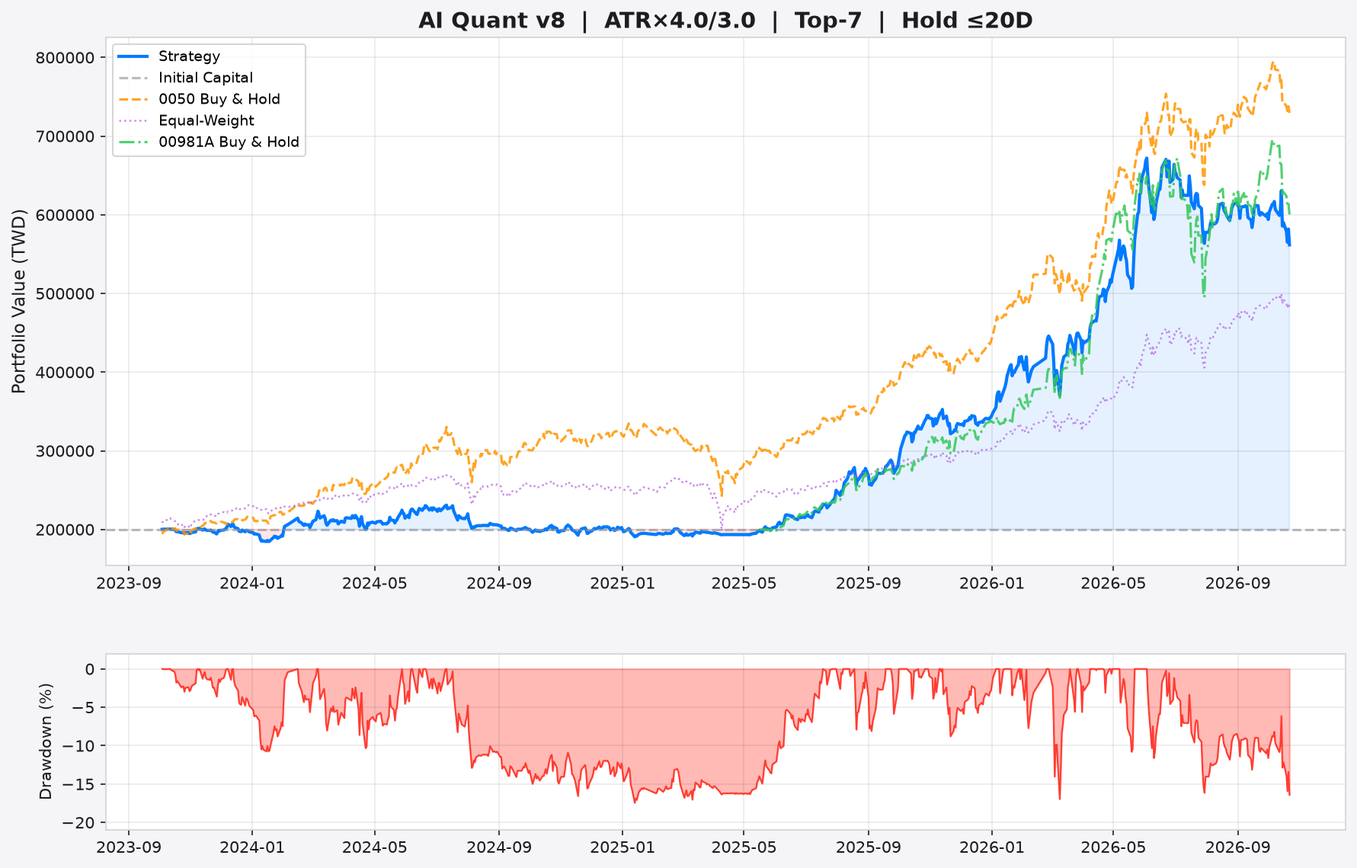
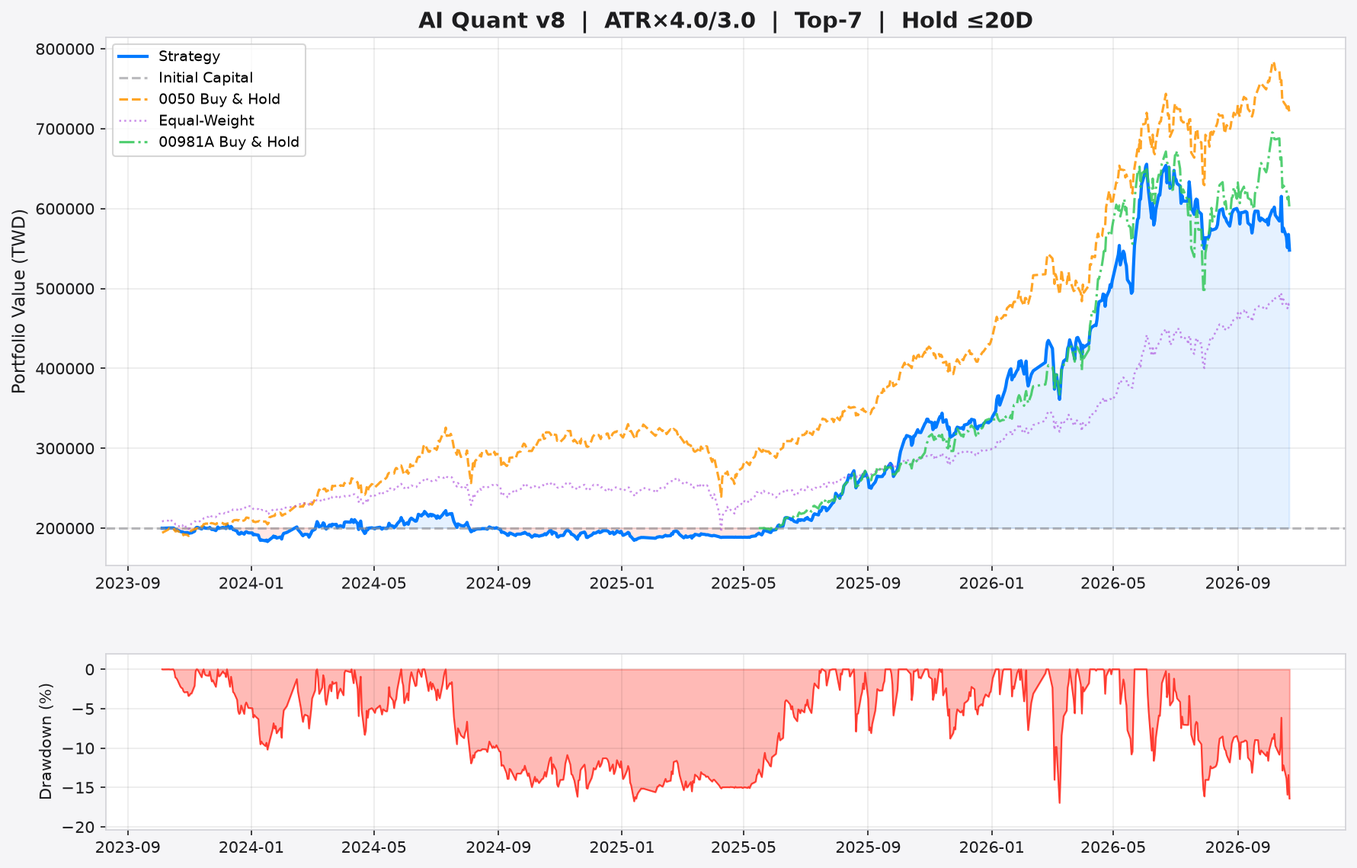
📊 AI Report v8.5 + Paper Trading (2026-10-23)

diff --git a/stock_report.html b/stock_report.html
@@ -303,27 +303,27 @@
     <div class="stats">
         <div class="stat-card">
             <div class="label">策略總報酬率</div>
-            <div class="value" style="color:#00ff00;">+180.9%</div>
+            <div class="value" style="color:#00ff00;">+174.0%</div>
         </div>
         <div class="stat-card">
             <div class="label">年化報酬率</div>
-            <div class="value" style="color:#00ff00;">+42.2%</div>
+            <div class="value" style="color:#00ff00;">+41.1%</div>
         </div>
         <div class="stat-card">
             <div class="label">年化波動率</div>
-            <div class="value">27.1%</div>
+            <div class="value">26.5%</div>
         </div>
         <div class="stat-card risk">
             <div class="label">Sharpe Ratio</div>
-            <div class="value" style="color:#00ff00;">1.44</div>
+            <div class="value" style="color:#00ff00;">1.43</div>
         </div>
         <div class="stat-card risk">
             <div class="label">Sortino Ratio</div>
-            <div class="value">2.01</div>
+            <div class="value">2.00</div>
         </div>
         <div class="stat-card risk">
             <div class="label">最大回撤</div>
-            <div class="value" style="color:#ff4444;">-17.4%</div>
+            <div class="value" style="color:#ff4444;">-17.0%</div>
         </div>
         <div class="stat-card risk">
             <div class="label">Calmar Ratio</div>
@@ -331,11 +331,11 @@
         </div>
         <div class="stat-card">
             <div class="label">完成交易數</div>
-            <div class="value">566</div>
+            <div class="value">567</div>
         </div>
         <div class="stat-card">
             <div class="label">勝率</div>
-            <div class="value" style="color:#00ff00;">53.4%</div>
+            <div class="value" style="color:#00ff00;">54.1%</div>
         </div>
         <div class="stat-card">
             <div class="label">Profit Factor</div>
@@ -343,7 +343,7 @@
         </div>
         <div class="stat-card">
             <div class="label">平均報酬/筆</div>
-            <div class="value">+2.48%</div>
+            <div class="value">+2.49%</div>
         </div>
         <div class="stat-card">
             <div class="label">平均持有天數</div>
@@ -373,14 +373,14 @@
 <tr><td>1303</td><td>4.00</td><td>301.0</td><td><span style="color:#00ff00; font-weight:bold;">🟢 建議買進 #1</span></td><td><b>停利:</b> <span style="color:#00ff00">383.1</span> (+27.3%) <br><b>停損:</b> <span style="color:#ff4444">239.4</span> (-20.5%) <br><b>最晚出場:</b> 2026-11-20</td><td><span style="font-size:0.72rem; color:#888;">歷史 <b>14</b>筆 | 勝率 <b style="color:#00ff00">79%</b> | 均報酬 <b style="color:#00ff00">+8.7%</b></span></td><td><span style="font-size:0.78rem;">⚪ 無資料<br><span style="color:#888; font-weight:bold;">+0.0%</span></span></td><td><span style="font-size:0.78rem;">⚪ 中性</span></td></tr>
 <tr><td>6505</td><td>3.93</td><td>106.5</td><td><span style="color:#00ff00; font-weight:bold;">🟢 建議買進 #2</span></td><td><b>停利:</b> <span style="color:#00ff00">137.4</span> (+29.0%) <br><b>停損:</b> <span style="color:#ff4444">83.3</span> (-21.8%) <br><b>最晚出場:</b> 2026-11-20</td><td><span style="font-size:0.72rem; color:#888;">歷史 <b>5</b>筆 | 勝率 <b style="color:#00ff00">60%</b> | 均報酬 <b style="color:#00ff00">+6.4%</b></span></td><td><span style="font-size:0.78rem;">⚪ 無資料<br><span style="color:#888; font-weight:bold;">+0.0%</span></span></td><td><span style="font-size:0.78rem;">⚪ 中性</span></td></tr>
 <tr><td>1101</td><td>3.78</td><td>28.0</td><td><span style="color:#00ff00; font-weight:bold;">🟢 建議買進 #3</span></td><td><b>停利:</b> <span style="color:#00ff00">31.2</span> (+11.5%) <br><b>停損:</b> <span style="color:#ff4444">25.5</span> (-8.6%) <br><b>最晚出場:</b> 2026-11-20</td><td><span style="font-size:0.72rem; color:#555;">歷史資料不足</span></td><td><span style="font-size:0.78rem;">🟡 小買<br><span style="color:#ffab00; font-weight:bold;">+1.2%</span></span></td><td><span style="font-size:0.78rem;">⚪ 中性</span></td></tr>
-<tr><td>4938</td><td>3.77</td><td>103.5</td><td><span style="color:#00ff00; font-weight:bold;">🟢 建議買進 #4</span></td><td><b>停利:</b> <span style="color:#00ff00">117.7</span> (+13.8%) <br><b>停損:</b> <span style="color:#ff4444">92.8</span> (-10.3%) <br><b>最晚出場:</b> 2026-11-20</td><td><span style="font-size:0.72rem; color:#888;">歷史 <b>3</b>筆 | 勝率 <b style="color:#ff4444">33%</b> | 均報酬 <b style="color:#00ff00">+1.7%</b></span></td><td><span style="font-size:0.78rem;">🟡 小買<br><span style="color:#ffab00; font-weight:bold;">+1.6%</span></span></td><td><span style="font-size:0.78rem;">⚪ 中性</span></td></tr>
+<tr><td>4938</td><td>3.77</td><td>103.5</td><td><span style="color:#00ff00; font-weight:bold;">🟢 建議買進 #4</span></td><td><b>停利:</b> <span style="color:#00ff00">117.7</span> (+13.8%) <br><b>停損:</b> <span style="color:#ff4444">92.8</span> (-10.3%) <br><b>最晚出場:</b> 2026-11-20</td><td><span style="font-size:0.72rem; color:#888;">歷史 <b>3</b>筆 | 勝率 <b style="color:#ff4444">33%</b> | 均報酬 <b style="color:#ff4444">-0.2%</b></span></td><td><span style="font-size:0.78rem;">🟡 小買<br><span style="color:#ffab00; font-weight:bold;">+1.6%</span></span></td><td><span style="font-size:0.78rem;">⚪ 中性</span></td></tr>
 <tr><td>1301</td><td>3.73</td><td>73.8</td><td><span style="color:#00ff00; font-weight:bold;">🟢 建議買進 #5</span></td><td><b>停利:</b> <span style="color:#00ff00">90.8</span> (+23.0%) <br><b>停損:</b> <span style="color:#ff4444">61.1</span> (-17.2%) <br><b>最晚出場:</b> 2026-11-20</td><td><span style="font-size:0.72rem; color:#888;">歷史 <b>3</b>筆 | 勝率 <b style="color:#ff4444">0%</b> | 均報酬 <b style="color:#ff4444">-9.5%</b></span></td><td><span style="font-size:0.78rem;">🟡 小買<br><span style="color:#ffab00; font-weight:bold;">+1.2%</span></span></td><td><span style="font-size:0.78rem;">⚪ 中性</span></td></tr>
 <tr><td>2412</td><td>3.52</td><td>158.0</td><td><span style="color:#00ff00; font-weight:bold;">🟢 建議買進 #6</span></td><td><b>停利:</b> <span style="color:#00ff00">167.9</span> (+6.3%) <br><b>停損:</b> <span style="color:#ff4444">150.6</span> (-4.7%) <br><b>最晚出場:</b> 2026-11-20</td><td><span style="font-size:0.72rem; color:#888;">歷史 <b>2</b>筆 | 勝率 <b style="color:#00ff00">100%</b> | 均報酬 <b style="color:#00ff00">+1.6%</b></span></td><td><span style="font-size:0.78rem;">⚪ 無資料<br><span style="color:#888; font-weight:bold;">+0.0%</span></span></td><td><span style="font-size:0.78rem;">⚪ 中性</span></td></tr>
-<tr><td>2884</td><td>3.50</td><td>49.8</td><td><span style="color:#00ff00; font-weight:bold;">🟢 建議買進 #7</span></td><td><b>停利:</b> <span style="color:#00ff00">53.9</span> (+8.3%) <br><b>停損:</b> <span style="color:#ff4444">46.7</span> (-6.2%) <br><b>最晚出場:</b> 2026-11-20</td><td><span style="font-size:0.72rem; color:#888;">歷史 <b>5</b>筆 | 勝率 <b style="color:#00ff00">80%</b> | 均報酬 <b style="color:#00ff00">+1.6%</b></span></td><td><span style="font-size:0.78rem;">⚪ 無資料<br><span style="color:#888; font-weight:bold;">+0.0%</span></span></td><td><span style="font-size:0.78rem;">⚪ 中性</span></td></tr>
-<tr style="opacity:0.6"><td>6415</td><td>3.45</td><td>472.0</td><td><span style="color:#ffab00">🟡 候選 (超出 Top-K)</span></td><td>-</td><td><span style="font-size:0.72rem; color:#888;">勝率 <b style="color:#ff4444">43%</b></span></td><td><span style="font-size:0.72rem;">⚪ 無資料<br><span style="color:#888">+0.0%</span></span></td><td><span style="font-size:0.72rem;">⚪ 中性</span></td></tr>
-<tr style="opacity:0.6"><td>2886</td><td>3.45</td><td>55.2</td><td><span style="color:#ffab00">🟡 候選 (超出 Top-K)</span></td><td>-</td><td><span style="font-size:0.72rem; color:#888;">勝率 <b style="color:#ff4444">0%</b></span></td><td><span style="font-size:0.72rem;">⚪ 無資料<br><span style="color:#888">+0.0%</span></span></td><td><span style="font-size:0.72rem;">⚪ 中性</span></td></tr>
-<tr style="opacity:0.6"><td>2603</td><td>3.28</td><td>260.0</td><td><span style="color:#ffab00">🟡 候選 (超出 Top-K)</span></td><td>-</td><td><span style="font-size:0.72rem; color:#888;">勝率 <b style="color:#ff4444">40%</b></span></td><td><span style="font-size:0.72rem;">🟢 大買<br><span style="color:#00ff00">+2.0%</span></span></td><td><span style="font-size:0.72rem;">⚪ 中性</span></td></tr>
-<tr style="opacity:0.6"><td>3533</td><td>3.27</td><td>1795.0</td><td><span style="color:#ffab00">🟡 候選 (超出 Top-K)</span></td><td>-</td><td><span style="font-size:0.72rem; color:#888;">勝率 <b style="color:#00ff00">50%</b></span></td><td><span style="font-size:0.72rem;">⚪ 無資料<br><span style="color:#888">+0.0%</span></span></td><td><span style="font-size:0.72rem;">⚪ 中性</span></td></tr>
+<tr><td>2884</td><td>3.50</td><td>49.8</td><td><span style="color:#00ff00; font-weight:bold;">🟢 建議買進 #7</span></td><td><b>停利:</b> <span style="color:#00ff00">53.9</span> (+8.3%) <br><b>停損:</b> <span style="color:#ff4444">46.7</span> (-6.2%) <br><b>最晚出場:</b> 2026-11-20</td><td><span style="font-size:0.72rem; color:#888;">歷史 <b>5</b>筆 | 勝率 <b style="color:#00ff00">80%</b> | 均報酬 <b style="color:#00ff00">+2.0%</b></span></td><td><span style="font-size:0.78rem;">⚪ 無資料<br><span style="color:#888; font-weight:bold;">+0.0%</span></span></td><td><span style="font-size:0.78rem;">⚪ 中性</span></td></tr>
+<tr style="opacity:0.6"><td>6415</td><td>3.45</td><td>472.0</td><td><span style="color:#ffab00">🟡 候選 (超出 Top-K)</span></td><td>-</td><td><span style="font-size:0.72rem; color:#888;">勝率 <b style="color:#ff4444">38%</b></span></td><td><span style="font-size:0.72rem;">⚪ 無資料<br><span style="color:#888">+0.0%</span></span></td><td><span style="font-size:0.72rem;">⚪ 中性</span></td></tr>
+<tr style="opacity:0.6"><td>2886</td><td>3.45</td><td>55.2</td><td><span style="color:#ffab00">🟡 候選 (超出 Top-K)</span></td><td>-</td><td><span style="font-size:0.72rem; color:#888;">勝率 <b style="color:#00ff00">50%</b></span></td><td><span style="font-size:0.72rem;">⚪ 無資料<br><span style="color:#888">+0.0%</span></span></td><td><span style="font-size:0.72rem;">⚪ 中性</span></td></tr>
+<tr style="opacity:0.6"><td>2603</td><td>3.28</td><td>260.0</td><td><span style="color:#ffab00">🟡 候選 (超出 Top-K)</span></td><td>-</td><td><span style="font-size:0.72rem; color:#888;">勝率 <b style="color:#00ff00">50%</b></span></td><td><span style="font-size:0.72rem;">🟢 大買<br><span style="color:#00ff00">+2.0%</span></span></td><td><span style="font-size:0.72rem;">⚪ 中性</span></td></tr>
+<tr style="opacity:0.6"><td>3533</td><td>3.27</td><td>1795.0</td><td><span style="color:#ffab00">🟡 候選 (超出 Top-K)</span></td><td>-</td><td><span style="font-size:0.72rem; color:#888;">勝率 <b style="color:#00ff00">71%</b></span></td><td><span style="font-size:0.72rem;">⚪ 無資料<br><span style="color:#888">+0.0%</span></span></td><td><span style="font-size:0.72rem;">⚪ 中性</span></td></tr>
 <tr style="opacity:0.6"><td>1326</td><td>3.27</td><td>73.0</td><td><span style="color:#ffab00">🟡 候選 (超出 Top-K)</span></td><td>-</td><td><span style="font-size:0.72rem; color:#888;">勝率 <b style="color:#ff4444">29%</b></span></td><td><span style="font-size:0.72rem;">⚪ 無資料<br><span style="color:#888">+0.0%</span></span></td><td><span style="font-size:0.72rem;">⚪ 中性</span></td></tr>
 <tr style="opacity:0.4"><td>2383</td><td>2.37</td><td>5070.0</td><td><span style="color:#aaaaaa">⚪ 觀望 (低於 MA)</span></td><td>-</td><td>-</td><td style="color:#555">-</td><td style="color:#555">-</td></tr>
 <tr style="opacity:0.4"><td>1605</td><td>2.02</td><td>37.0</td><td><span style="color:#aaaaaa">⚪ 觀望 (低於 MA)</span></td><td>-</td><td>-</td><td style="color:#555">-</td><td style="color:#555">-</td></tr>
@@ -461,7 +461,7 @@
     <div class="stats">
         <div class="stat-card benchmark">
             <div class="label">0050 年化報酬</div>
-            <div class="value">+50.3%</div>
+            <div class="value">+49.8%</div>
         </div>
         <div class="stat-card benchmark">
             <div class="label">0050 最大回撤</div>
@@ -469,11 +469,11 @@
         </div>
         <div class="stat-card benchmark">
             <div class="label">0050 Sharpe</div>
-            <div class="value">1.75</div>
+            <div class="value">1.73</div>
         </div>
         <div class="stat-card" style="border-left-color:#ff4444">
             <div class="label">超額年化報酬 (α)</div>
-            <div class="value" style="color:#ff4444">-8.1%</div>
+            <div class="value" style="color:#ff4444">-8.7%</div>
         </div>
     </div>
 
@@ -533,18 +533,18 @@
         </div>
         <div class="stat-card">
             <div class="label">權益最高點</div>
-            <div class="value">671,984</div>
+            <div class="value">655,489</div>
         </div>
         <div class="stat-card">
             <div class="label">歷史回撤次數</div>
-            <div class="value">34</div>
+            <div class="value">32</div>
         </div>
     </div>
     <table>
         <thead><tr><th>#</th><th>開始日</th><th>恢復日</th><th>最大深度</th><th>持續天數</th></tr></thead>
         <tbody>
-<tr><td>#1</td><td>2024-07-18</td><td>2025-07-18</td><td style="color:#ff4444; font-weight:bold">-17.4%</td><td>365 天</td></tr>
-<tr><td>#2</td><td>2026-03-02</td><td>2026-03-19</td><td style="color:#ff4444; font-weight:bold">-17.0%</td><td>17 天</td></tr>
+<tr><td>#1</td><td>2026-03-02</td><td>2026-03-19</td><td style="color:#ff4444; font-weight:bold">-17.0%</td><td>17 天</td></tr>
+<tr><td>#2</td><td>2024-07-12</td><td>2025-07-15</td><td style="color:#ff4444; font-weight:bold">-16.8%</td><td>368 天</td></tr>
 <tr><td>#3</td><td>2026-06-23</td><td>2026-10-22</td><td style="color:#ff4444; font-weight:bold">-16.4%</td><td>121 天</td></tr>
 <tr><td>#4</td><td>2026-06-04</td><td>2026-06-22</td><td style="color:#ff4444; font-weight:bold">-11.6%</td><td>18 天</td></tr>
 <tr><td>#5</td><td>2026-05-08</td><td>2026-05-22</td><td style="color:#ff4444; font-weight:bold">-10.8%</td><td>14 天</td></tr>
@@ -562,11 +562,11 @@
         </div>
         <div class="stat-card">
             <div class="label">歷史平均 Sharpe</div>
-            <div class="value">1.45</div>
+            <div class="value">1.41</div>
         </div>
         <div class="stat-card risk">
             <div class="label">歷史最低 Sharpe</div>
-            <div class="value">-3.05</div>
+            <div class="value">-3.48</div>
         </div>
         <div class="stat-card">
             <div class="label">歷史最高 Sharpe</div>
@@ -596,9 +596,9 @@
     <table>
         <thead><tr><th>出場原因</th><th>次數</th><th>平均報酬</th></tr></thead>
         <tbody>
-<tr><td>🟢 停利</td><td>210 筆</td><td style="color:#00ff00">+16.60%</td></tr>
-<tr><td>⚪ 時間到期</td><td>206 筆</td><td style="color:#ff4444">-0.45%</td></tr>
-<tr><td>🔴 停損</td><td>150 筆</td><td style="color:#ff4444">-13.26%</td></tr>
+<tr><td>🟢 停利</td><td>213 筆</td><td style="color:#00ff00">+16.41%</td></tr>
+<tr><td>⚪ 時間到期</td><td>203 筆</td><td style="color:#ff4444">-0.31%</td></tr>
+<tr><td>🔴 停損</td><td>151 筆</td><td style="color:#ff4444">-13.36%</td></tr>
 
         </tbody>
     </table>
@@ -608,14 +608,14 @@
 
     <table>
         <thead><tr><th>報酬區間</th><th>筆數</th><th>佔比</th><th>分布</th></tr></thead>
-        <tbody><tr><td>< -15%</td><td>39</td><td>6.9%</td><td><div style="background:#ff4444; width:20.671378091872793%; height:14px; border-radius:3px; opacity:0.6"></div></td></tr>
-<tr><td>-15~-10%</td><td>89</td><td>15.7%</td><td><div style="background:#ff4444; width:47.1731448763251%; height:14px; border-radius:3px; opacity:0.6"></div></td></tr>
-<tr><td>-10~-5%</td><td>74</td><td>13.1%</td><td><div style="background:#ff4444; width:39.2226148409894%; height:14px; border-radius:3px; opacity:0.6"></div></td></tr>
-<tr><td>-5~0%</td><td>62</td><td>11.0%</td><td><div style="background:#ff4444; width:32.86219081272085%; height:14px; border-radius:3px; opacity:0.6"></div></td></tr>
-<tr><td>0~5%</td><td>57</td><td>10.1%</td><td><div style="background:#00ff00; width:30.212014134275613%; height:14px; border-radius:3px; opacity:0.6"></div></td></tr>
-<tr><td>5~10%</td><td>42</td><td>7.4%</td><td><div style="background:#00ff00; width:22.26148409893993%; height:14px; border-radius:3px; opacity:0.6"></div></td></tr>
-<tr><td>10~20%</td><td>150</td><td>26.5%</td><td><div style="background:#00ff00; width:79.50530035335689%; height:14px; border-radius:3px; opacity:0.6"></div></td></tr>
-<tr><td>> 20%</td><td>53</td><td>9.4%</td><td><div style="background:#00ff00; width:28.09187279151943%; height:14px; border-radius:3px; opacity:0.6"></div></td></tr>
+        <tbody><tr><td>< -15%</td><td>39</td><td>6.9%</td><td><div style="background:#ff4444; width:20.634920634920633%; height:14px; border-radius:3px; opacity:0.6"></div></td></tr>
+<tr><td>-15~-10%</td><td>91</td><td>16.0%</td><td><div style="background:#ff4444; width:48.14814814814815%; height:14px; border-radius:3px; opacity:0.6"></div></td></tr>
+<tr><td>-10~-5%</td><td>74</td><td>13.1%</td><td><div style="background:#ff4444; width:39.15343915343915%; height:14px; border-radius:3px; opacity:0.6"></div></td></tr>
+<tr><td>-5~0%</td><td>56</td><td>9.9%</td><td><div style="background:#ff4444; width:29.629629629629626%; height:14px; border-radius:3px; opacity:0.6"></div></td></tr>
+<tr><td>0~5%</td><td>57</td><td>10.1%</td><td><div style="background:#00ff00; width:30.158730158730158%; height:14px; border-radius:3px; opacity:0.6"></div></td></tr>
+<tr><td>5~10%</td><td>46</td><td>8.1%</td><td><div style="background:#00ff00; width:24.33862433862434%; height:14px; border-radius:3px; opacity:0.6"></div></td></tr>
+<tr><td>10~20%</td><td>150</td><td>26.5%</td><td><div style="background:#00ff00; width:79.36507936507935%; height:14px; border-radius:3px; opacity:0.6"></div></td></tr>
+<tr><td>> 20%</td><td>54</td><td>9.5%</td><td><div style="background:#00ff00; width:28.57142857142857%; height:14px; border-radius:3px; opacity:0.6"></div></td></tr>
 </tbody>
     </table>
 
@@ -626,25 +626,25 @@
     <table>
         <thead><tr><th>股票</th><th>交易數</th><th>勝率</th><th>平均報酬</th><th>總貢獻</th></tr></thead>
         <tbody><tr><td><b>2344</b></td><td>16</td><td style="color:#00ff00">81%</td><td style="color:#00ff00">+12.0%</td><td style="color:#00ff00; font-weight:bold">+192.7%</td></tr>
-<tr><td><b>2383</b></td><td>15</td><td style="color:#00ff00">80%</td><td style="color:#00ff00">+11.9%</td><td style="color:#00ff00; font-weight:bold">+178.9%</td></tr>
-<tr><td><b>3017</b></td><td>18</td><td style="color:#00ff00">83%</td><td style="color:#00ff00">+9.9%</td><td style="color:#00ff00; font-weight:bold">+177.8%</td></tr>
+<tr><td><b>2383</b></td><td>14</td><td style="color:#00ff00">79%</td><td style="color:#00ff00">+11.8%</td><td style="color:#00ff00; font-weight:bold">+165.0%</td></tr>
+<tr><td><b>3017</b></td><td>17</td><td style="color:#00ff00">82%</td><td style="color:#00ff00">+9.6%</td><td style="color:#00ff00; font-weight:bold">+163.7%</td></tr>
 <tr><td><b>1303</b></td><td>14</td><td style="color:#00ff00">79%</td><td style="color:#00ff00">+8.7%</td><td style="color:#00ff00; font-weight:bold">+122.4%</td></tr>
 <tr><td><b>2360</b></td><td>10</td><td style="color:#00ff00">80%</td><td style="color:#00ff00">+12.0%</td><td style="color:#00ff00; font-weight:bold">+119.5%</td></tr>
-<tr><td><b>2408</b></td><td>19</td><td style="color:#00ff00">63%</td><td style="color:#00ff00">+6.1%</td><td style="color:#00ff00; font-weight:bold">+116.3%</td></tr>
+<tr><td><b>2408</b></td><td>20</td><td style="color:#00ff00">60%</td><td style="color:#00ff00">+5.7%</td><td style="color:#00ff00; font-weight:bold">+115.0%</td></tr>
 <tr><td><b>6770</b></td><td>9</td><td style="color:#00ff00">89%</td><td style="color:#00ff00">+12.4%</td><td style="color:#00ff00; font-weight:bold">+111.8%</td></tr>
-<tr><td><b>5274O</b></td><td>17</td><td style="color:#00ff00">71%</td><td style="color:#00ff00">+5.3%</td><td style="color:#00ff00; font-weight:bold">+89.3%</td></tr>
-<tr><td><b>2327</b></td><td>10</td><td style="color:#00ff00">70%</td><td style="color:#00ff00">+8.5%</td><td style="color:#00ff00; font-weight:bold">+84.9%</td></tr>
-<tr><td><b>3037</b></td><td>12</td><td style="color:#00ff00">58%</td><td style="color:#00ff00">+6.8%</td><td style="color:#00ff00; font-weight:bold">+81.0%</td></tr>
+<tr><td><b>2327</b></td><td>10</td><td style="color:#00ff00">70%</td><td style="color:#00ff00">+8.6%</td><td style="color:#00ff00; font-weight:bold">+85.5%</td></tr>
+<tr><td><b>5274O</b></td><td>15</td><td style="color:#00ff00">67%</td><td style="color:#00ff00">+5.6%</td><td style="color:#00ff00; font-weight:bold">+83.7%</td></tr>
+<tr><td><b>3037</b></td><td>12</td><td style="color:#00ff00">58%</td><td style="color:#00ff00">+6.7%</td><td style="color:#00ff00; font-weight:bold">+80.3%</td></tr>
 </tbody>
     </table>
     <h3 style="color:#ff4444; margin-top:16px">📉 Bottom 5 虧損股</h3>
     <table>
         <thead><tr><th>股票</th><th>交易數</th><th>勝率</th><th>平均報酬</th><th>總貢獻</th></tr></thead>
-        <tbody><tr style="opacity:0.7"><td><b>2382</b></td><td>3</td><td style="color:#ff4444">0%</td><td style="color:#ff4444">-10.5%</td><td style="color:#ff4444; font-weight:bold">-31.6%</td></tr>
-<tr style="opacity:0.7"><td><b>1326</b></td><td>7</td><td style="color:#ff4444">29%</td><td style="color:#ff4444">-4.6%</td><td style="color:#ff4444; font-weight:bold">-32.5%</td></tr>
+        <tbody><tr style="opacity:0.7"><td><b>1326</b></td><td>7</td><td style="color:#ff4444">29%</td><td style="color:#ff4444">-4.6%</td><td style="color:#ff4444; font-weight:bold">-32.5%</td></tr>
+<tr style="opacity:0.7"><td><b>2379</b></td><td>4</td><td style="color:#ff4444">0%</td><td style="color:#ff4444">-8.9%</td><td style="color:#ff4444; font-weight:bold">-35.6%</td></tr>
 <tr style="opacity:0.7"><td><b>1605</b></td><td>6</td><td style="color:#ff4444">17%</td><td style="color:#ff4444">-6.4%</td><td style="color:#ff4444; font-weight:bold">-38.5%</td></tr>
 <tr style="opacity:0.7"><td><b>2634</b></td><td>6</td><td style="color:#ff4444">17%</td><td style="color:#ff4444">-6.5%</td><td style="color:#ff4444; font-weight:bold">-39.2%</td></tr>
-<tr style="opacity:0.7"><td><b>3481</b></td><td>12</td><td style="color:#ff4444">25%</td><td style="color:#ff4444">-5.6%</td><td style="color:#ff4444; font-weight:bold">-67.6%</td></tr>
+<tr style="opacity:0.7"><td><b>3481</b></td><td>12</td><td style="color:#ff4444">25%</td><td style="color:#ff4444">-5.6%</td><td style="color:#ff4444; font-weight:bold">-67.7%</td></tr>
 </tbody>
     </table>
 
@@ -687,23 +687,23 @@
     <table style="max-width:400px">
         <thead><tr><th>月份</th><th>月報酬</th></tr></thead>
         <tbody>
-<tr style="background:rgba(0,255,0,0.05)"><td>2023-11</td><td style="color:#00ff00; font-weight:bold">+1.7%</td></tr>
-<tr style="background:rgba(255,68,68,0.02)"><td>2023-12</td><td style="color:#ff4444; font-weight:bold">-0.6%</td></tr>
-<tr style="background:rgba(255,68,68,0.08)"><td>2024-01</td><td style="color:#ff4444; font-weight:bold">-2.8%</td></tr>
-<tr style="background:rgba(0,255,0,0.25)"><td>2024-02</td><td style="color:#00ff00; font-weight:bold">+8.5%</td></tr>
-<tr style="background:rgba(0,255,0,0.04)"><td>2024-03</td><td style="color:#00ff00; font-weight:bold">+1.4%</td></tr>
-<tr style="background:rgba(255,68,68,0.03)"><td>2024-04</td><td style="color:#ff4444; font-weight:bold">-0.9%</td></tr>
-<tr style="background:rgba(0,255,0,0.08)"><td>2024-05</td><td style="color:#00ff00; font-weight:bold">+2.7%</td></tr>
-<tr style="background:rgba(0,255,0,0.18)"><td>2024-06</td><td style="color:#00ff00; font-weight:bold">+6.2%</td></tr>
-<tr style="background:rgba(255,68,68,0.14)"><td>2024-07</td><td style="color:#ff4444; font-weight:bold">-4.8%</td></tr>
-<tr style="background:rgba(255,68,68,0.15)"><td>2024-08</td><td style="color:#ff4444; font-weight:bold">-4.9%</td></tr>
-<tr style="background:rgba(255,68,68,0.09)"><td>2024-09</td><td style="color:#ff4444; font-weight:bold">-3.1%</td></tr>
+<tr style="background:rgba(0,255,0,0.10)"><td>2023-11</td><td style="color:#00ff00; font-weight:bold">+3.2%</td></tr>
+<tr style="background:rgba(255,68,68,0.08)"><td>2023-12</td><td style="color:#ff4444; font-weight:bold">-2.8%</td></tr>
+<tr style="background:rgba(255,68,68,0.12)"><td>2024-01</td><td style="color:#ff4444; font-weight:bold">-4.0%</td></tr>
+<tr style="background:rgba(0,255,0,0.12)"><td>2024-02</td><td style="color:#00ff00; font-weight:bold">+3.8%</td></tr>
+<tr style="background:rgba(0,255,0,0.15)"><td>2024-03</td><td style="color:#00ff00; font-weight:bold">+5.0%</td></tr>
+<tr style="background:rgba(255,68,68,0.04)"><td>2024-04</td><td style="color:#ff4444; font-weight:bold">-1.5%</td></tr>
+<tr style="background:rgba(0,255,0,0.06)"><td>2024-05</td><td style="color:#00ff00; font-weight:bold">+2.0%</td></tr>
+<tr style="background:rgba(0,255,0,0.19)"><td>2024-06</td><td style="color:#00ff00; font-weight:bold">+6.3%</td></tr>
+<tr style="background:rgba(255,68,68,0.17)"><td>2024-07</td><td style="color:#ff4444; font-weight:bold">-5.6%</td></tr>
+<tr style="background:rgba(255,68,68,0.06)"><td>2024-08</td><td style="color:#ff4444; font-weight:bold">-2.1%</td></tr>
+<tr style="background:rgba(255,68,68,0.13)"><td>2024-09</td><td style="color:#ff4444; font-weight:bold">-4.3%</td></tr>
 <tr style="background:rgba(255,68,68,0.05)"><td>2024-10</td><td style="color:#ff4444; font-weight:bold">-1.6%</td></tr>
-<tr style="background:rgba(255,68,68,0.00)"><td>2024-11</td><td style="color:#ff4444; font-weight:bold">-0.0%</td></tr>
-<tr style="background:rgba(0,255,0,0.09)"><td>2024-12</td><td style="color:#00ff00; font-weight:bold">+3.1%</td></tr>
-<tr style="background:rgba(255,68,68,0.11)"><td>2025-01</td><td style="color:#ff4444; font-weight:bold">-3.6%</td></tr>
-<tr style="background:rgba(0,255,0,0.02)"><td>2025-02</td><td style="color:#00ff00; font-weight:bold">+0.5%</td></tr>
-<tr style="background:rgba(255,68,68,0.02)"><td>2025-03</td><td style="color:#ff4444; font-weight:bold">-0.5%</td></tr>
+<tr style="background:rgba(0,255,0,0.01)"><td>2024-11</td><td style="color:#00ff00; font-weight:bold">+0.3%</td></tr>
+<tr style="background:rgba(0,255,0,0.10)"><td>2024-12</td><td style="color:#00ff00; font-weight:bold">+3.5%</td></tr>
+<tr style="background:rgba(255,68,68,0.12)"><td>2025-01</td><td style="color:#ff4444; font-weight:bold">-3.9%</td></tr>
+<tr style="background:rgba(0,255,0,0.06)"><td>2025-02</td><td style="color:#00ff00; font-weight:bold">+1.9%</td></tr>
+<tr style="background:rgba(255,68,68,0.03)"><td>2025-03</td><td style="color:#ff4444; font-weight:bold">-0.9%</td></tr>
 <tr style="background:rgba(255,68,68,0.03)"><td>2025-04</td><td style="color:#ff4444; font-weight:bold">-0.9%</td></tr>
 <tr style="background:rgba(0,255,0,0.14)"><td>2025-05</td><td style="color:#00ff00; font-weight:bold">+4.6%</td></tr>
 <tr style="background:rgba(0,255,0,0.19)"><td>2025-06</td><td style="color:#00ff00; font-weight:bold">+6.4%</td></tr>

diff --git a/paper_trading.html b/paper_trading.html
@@ -3,7 +3,7 @@
 <head>
     <meta charset="utf-8">
     <meta name="viewport" content="width=device-width, initial-scale=1.0">
-    <title>Paper Trading v8.5 — 2026-10-22</title>
+    <title>Paper Trading v8.5 — 2026-10-23</title>
     <meta name="description" content="TW Stocker v8.5 Paper Trading 實時績效追蹤">
     <script src="https://cdn.jsdelivr.net/npm/chart.js@4"></script>
     <style>
@@ -92,7 +92,7 @@
     <h1>📈 Paper Trading v8.5</h1>
     <p class="subtitle">
         <span class="badge badge-live">● LIVE</span>
-        起始日 2026-04-22 | 更新 2026-10-22 | 初始資金 200,000 | 保留本金 10%，其餘投入
+        起始日 2026-04-22 | 更新 2026-10-23 | 初始資金 200,000 | 保留本金 10%，其餘投入
     </p>
 
     <div class="metrics">
@@ -106,7 +106,7 @@
         </div>
         <div class="metric">
             <div class="label">年化報酬</div>
-            <div class="value green">+35.4%</div>
+            <div class="value green">+35.1%</div>
         </div>
         <div class="metric">
             <div class="label">最大回撤</div>
@@ -146,7 +146,7 @@
             <td>10208.0</td>
             <td>7262.8</td>
             <td>2026-09-29</td>
-            <td>17天</td>
+            <td>18天</td>
         </tr>
         <tr>
             <td><b>6505</b></td>
@@ -154,7 +154,7 @@
             <td>131.9</td>
             <td>94.4</td>
             <td>2026-10-12</td>
-            <td>8天</td>
+            <td>9天</td>
         </tr>
         <tr>
             <td><b>1303</b></td>
@@ -162,7 +162,7 @@
             <td>356.5</td>
             <td>285.2</td>
             <td>2026-10-14</td>
-            <td>6天</td>
+            <td>7天</td>
         </tr>
         <tr>
             <td><b>2368</b></td>
@@ -170,7 +170,7 @@
             <td>1562.0</td>
             <td>1033.5</td>
             <td>2026-10-15</td>
-            <td>5天</td>
+            <td>6天</td>
         </tr>
         <tr>
             <td><b>3035</b></td>
@@ -178,7 +178,7 @@
             <td>247.4</td>
             <td>183.7</td>
             <td>2026-10-15</td>
-            <td>5天</td>
+            <td>6天</td>
         </tr>
         <tr>
             <td><b>1326</b></td>
@@ -186,7 +186,7 @@
             <td>90.5</td>
             <td>72.4</td>
             <td>2026-10-20</td>
-            <td>2天</td>
+            <td>3天</td>
         </tr>
         <tr>
             <td><b>4938</b></td>
@@ -194,7 +194,7 @@
             <td>116.8</td>
             <td>96.1</td>
             <td>2026-10-21</td>
-            <td>1天</td>
+            <td>2天</td>
         </tr>
         </table>
     </div>
@@ -545,10 +545,10 @@ const ctx = document.getElementById('equityChart').getContext('2d');
 new Chart(ctx, {
     type: 'line',
     data: {
-        labels: ["2026-04-22", "2026-04-23", "2026-04-24", "2026-04-27", "2026-04-29", "2026-04-30", "2026-05-01", "2026-05-04", "2026-05-05", "2026-05-06", "2026-05-07", "2026-05-08", "2026-05-11", "2026-05-12", "2026-05-13", "2026-05-14", "2026-05-15", "2026-05-18", "2026-05-19", "2026-05-20", "2026-05-21", "2026-05-22", "2026-05-25", "2026-05-26", "2026-05-29", "2026-06-02", "2026-06-03", "2026-06-04", "2026-06-05", "2026-06-08", "2026-06-09", "2026-06-10", "2026-06-11", "2026-06-12", "2026-06-15", "2026-06-16", "2026-06-17", "2026-06-18", "2026-06-19", "2026-06-22", "2026-06-23", "2026-06-24", "2026-06-25", "2026-06-26", "2026-06-29", "2026-06-30", "2026-07-01", "2026-07-02", "2026-07-03", "2026-07-06", "2026-07-07", "2026-07-08", "2026-07-09", "2026-07-10", "2026-07-13", "2026-07-14", "2026-07-15", "2026-07-16", "2026-07-17", "2026-07-20", "2026-07-21", "2026-07-22", "2026-07-23", "2026-07-24", "2026-07-27", "2026-07-28", "2026-07-29", "2026-07-30", "2026-07-31", "2026-08-03", "2026-08-04", "2026-08-05", "2026-08-06", "2026-08-07", "2026-08-10", "2026-08-11", "2026-08-12", "2026-08-13", "2026-08-14", "2026-08-17", "2026-08-18", "2026-08-19", "2026-08-20", "2026-08-21", "2026-08-24", "2026-08-25", "2026-08-26", "2026-08-27", "2026-08-28", "2026-08-31", "2026-09-01", "2026-09-02", "2026-09-03", "2026-09-04", "2026-09-07", "2026-09-08", "2026-09-09", "2026-09-10", "2026-09-11", "2026-09-14", "2026-09-15", "2026-09-16", "2026-09-17", "2026-09-18", "2026-09-21", "2026-09-22", "2026-09-23", "2026-09-24", "2026-09-25", "2026-09-28", "2026-09-29", "2026-09-30", "2026-10-01", "2026-10-02", "2026-10-05", "2026-10-06", "2026-10-07", "2026-10-08", "2026-10-09", "2026-10-12", "2026-10-13", "2026-10-14", "2026-10-15", "2026-10-16", "2026-10-19", "2026-10-20", "2026-10-21", "2026-10-22"],
+        labels: ["2026-04-22", "2026-04-23", "2026-04-24", "2026-04-27", "2026-04-29", "2026-04-30", "2026-05-01", "2026-05-04", "2026-05-05", "2026-05-06", "2026-05-07", "2026-05-08", "2026-05-11", "2026-05-12", "2026-05-13", "2026-05-14", "2026-05-15", "2026-05-18", "2026-05-19", "2026-05-20", "2026-05-21", "2026-05-22", "2026-05-25", "2026-05-26", "2026-05-29", "2026-06-02", "2026-06-03", "2026-06-04", "2026-06-05", "2026-06-08", "2026-06-09", "2026-06-10", "2026-06-11", "2026-06-12", "2026-06-15", "2026-06-16", "2026-06-17", "2026-06-18", "2026-06-19", "2026-06-22", "2026-06-23", "2026-06-24", "2026-06-25", "2026-06-26", "2026-06-29", "2026-06-30", "2026-07-01", "2026-07-02", "2026-07-03", "2026-07-06", "2026-07-07", "2026-07-08", "2026-07-09", "2026-07-10", "2026-07-13", "2026-07-14", "2026-07-15", "2026-07-16", "2026-07-17", "2026-07-20", "2026-07-21", "2026-07-22", "2026-07-23", "2026-07-24", "2026-07-27", "2026-07-28", "2026-07-29", "2026-07-30", "2026-07-31", "2026-08-03", "2026-08-04", "2026-08-05", "2026-08-06", "2026-08-07", "2026-08-10", "2026-08-11", "2026-08-12", "2026-08-13", "2026-08-14", "2026-08-17", "2026-08-18", "2026-08-19", "2026-08-20", "2026-08-21", "2026-08-24", "2026-08-25", "2026-08-26", "2026-08-27", "2026-08-28", "2026-08-31", "2026-09-01", "2026-09-02", "2026-09-03", "2026-09-04", "2026-09-07", "2026-09-08", "2026-09-09", "2026-09-10", "2026-09-11", "2026-09-14", "2026-09-15", "2026-09-16", "2026-09-17", "2026-09-18", "2026-09-21", "2026-09-22", "2026-09-23", "2026-09-24", "2026-09-25", "2026-09-28", "2026-09-29", "2026-09-30", "2026-10-01", "2026-10-02", "2026-10-05", "2026-10-06", "2026-10-07", "2026-10-08", "2026-10-09", "2026-10-12", "2026-10-13", "2026-10-14", "2026-10-15", "2026-10-16", "2026-10-19", "2026-10-20", "2026-10-21", "2026-10-22", "2026-10-23"],
         datasets: [{
             label: 'Paper Trading 權益',
-            data: [198952.0, 198438.0, 203189.0, 204266.0, 202703.0, 207261.0, 207261.0, 209021.0, 209122.0, 210225.0, 213939.0, 211340.0, 217936.0, 218528.0, 216129.0, 216592.0, 213700.0, 216976.0, 214891.0, 214560.0, 221605.0, 224953.0, 228551.0, 229268.0, 234623.0, 246313.0, 244921.0, 243850.0, 244318.0, 242242.0, 244315.0, 242167.0, 242815.0, 244222.0, 246148.0, 246352.0, 254441.0, 271189.0, 271189.0, 279092.0, 269516.0, 274516.0, 281521.0, 265409.0, 269474.0, 282169.0, 282916.0, 286245.0, 287001.0, 282088.0, 265765.0, 267788.0, 273433.0, 273433.0, 269891.0, 267803.0, 286781.0, 280120.0, 263260.0, 259587.0, 273080.0, 276565.0, 276922.0, 267215.0, 261436.0, 248786.0, 244077.0, 237034.0, 245648.0, 241912.0, 244439.0, 250044.0, 245849.0, 247377.0, 250059.0, 251276.0, 254977.0, 263971.0, 266066.0, 263111.0, 260691.0, 261781.0, 258782.0, 253296.0, 254424.0, 259169.0, 266222.0, 266222.0, 265532.0, 267519.0, 259542.0, 258382.0, 250447.0, 258293.0, 253827.0, 248207.0, 248522.0, 249627.0, 247177.0, 247177.0, 239820.0, 242722.0, 250636.0, 254025.0, 254025.0, 250574.0, 249585.0, 252220.0, 252220.0, 252220.0, 247959.0, 248193.0, 250069.0, 249083.0, 254152.0, 255071.0, 254048.0, 259636.0, 258508.0, 259869.0, 260752.0, 267201.0, 248957.0, 253458.0, 253458.0, 239274.0, 245293.0, 235950.0],
+            data: [198952.0, 198438.0, 203189.0, 204266.0, 202703.0, 207261.0, 207261.0, 209021.0, 209122.0, 210225.0, 213939.0, 211340.0, 217936.0, 218528.0, 216129.0, 216592.0, 213700.0, 216976.0, 214891.0, 214560.0, 221605.0, 224953.0, 228551.0, 229268.0, 234623.0, 246313.0, 244921.0, 243850.0, 244318.0, 242242.0, 244315.0, 242167.0, 242815.0, 244222.0, 246148.0, 246352.0, 254441.0, 271189.0, 271189.0, 279092.0, 269516.0, 274516.0, 281521.0, 265409.0, 269474.0, 282169.0, 282916.0, 286245.0, 287001.0, 282088.0, 265765.0, 267788.0, 273433.0, 273433.0, 269891.0, 267803.0, 286781.0, 280120.0, 263260.0, 259587.0, 273080.0, 276565.0, 276922.0, 267215.0, 261436.0, 248786.0, 244077.0, 237034.0, 245648.0, 241912.0, 244439.0, 250044.0, 245849.0, 247377.0, 250059.0, 251276.0, 254977.0, 263971.0, 266066.0, 263111.0, 260691.0, 261781.0, 258782.0, 253296.0, 254424.0, 259169.0, 266222.0, 266222.0, 265532.0, 267519.0, 259542.0, 258382.0, 250447.0, 258293.0, 253827.0, 248207.0, 248522.0, 249627.0, 247177.0, 247177.0, 239820.0, 242722.0, 250636.0, 254025.0, 254025.0, 250574.0, 249585.0, 252220.0, 252220.0, 252220.0, 247959.0, 248193.0, 250069.0, 249083.0, 254152.0, 255071.0, 254048.0, 259636.0, 258508.0, 259869.0, 260752.0, 267201.0, 248957.0, 253458.0, 253458.0, 239274.0, 245293.0, 235950.0, 235950.0],
             borderColor: '#60a5fa',
             backgroundColor: 'rgba(96, 165, 250, 0.1)',
             fill: true,
@@ -557,7 +557,7 @@ new Chart(ctx, {
             borderWidth: 2,
         }, {
             label: '初始資金',
-            data: [200000, 200000, 200000, 200000, 200000, 200000, 200000, 200000, 200000, 200000, 200000, 200000, 200000, 200000, 200000, 200000, 200000, 200000, 200000, 200000, 200000, 200000, 200000, 200000, 200000, 200000, 200000, 200000, 200000, 200000, 200000, 200000, 200000, 200000, 200000, 200000, 200000, 200000, 200000, 200000, 200000, 200000, 200000, 200000, 200000, 200000, 200000, 200000, 200000, 200000, 200000, 200000, 200000, 200000, 200000, 200000, 200000, 200000, 200000, 200000, 200000, 200000, 200000, 200000, 200000, 200000, 200000, 200000, 200000, 200000, 200000, 200000, 200000, 200000, 200000, 200000, 200000, 200000, 200000, 200000, 200000, 200000, 200000, 200000, 200000, 200000, 200000, 200000, 200000, 200000, 200000, 200000, 200000, 200000, 200000, 200000, 200000, 200000, 200000, 200000, 200000, 200000, 200000, 200000, 200000, 200000, 200000, 200000, 200000, 200000, 200000, 200000, 200000, 200000, 200000, 200000, 200000, 200000, 200000, 200000, 200000, 200000, 200000, 200000, 200000, 200000, 200000, 200000],
+            data: [200000, 200000, 200000, 200000, 200000, 200000, 200000, 200000, 200000, 200000, 200000, 200000, 200000, 200000, 200000, 200000, 200000, 200000, 200000, 200000, 200000, 200000, 200000, 200000, 200000, 200000, 200000, 200000, 200000, 200000, 200000, 200000, 200000, 200000, 200000, 200000, 200000, 200000, 200000, 200000, 200000, 200000, 200000, 200000, 200000, 200000, 200000, 200000, 200000, 200000, 200000, 200000, 200000, 200000, 200000, 200000, 200000, 200000, 200000, 200000, 200000, 200000, 200000, 200000, 200000, 200000, 200000, 200000, 200000, 200000, 200000, 200000, 200000, 200000, 200000, 200000, 200000, 200000, 200000, 200000, 200000, 200000, 200000, 200000, 200000, 200000, 200000, 200000, 200000, 200000, 200000, 200000, 200000, 200000, 200000, 200000, 200000, 200000, 200000, 200000, 200000, 200000, 200000, 200000, 200000, 200000, 200000, 200000, 200000, 200000, 200000, 200000, 200000, 200000, 200000, 200000, 200000, 200000, 200000, 200000, 200000, 200000, 200000, 200000, 200000, 200000, 200000, 200000, 200000],
             borderColor: '#475569',
             borderDash: [5, 5],
             fill: false,
